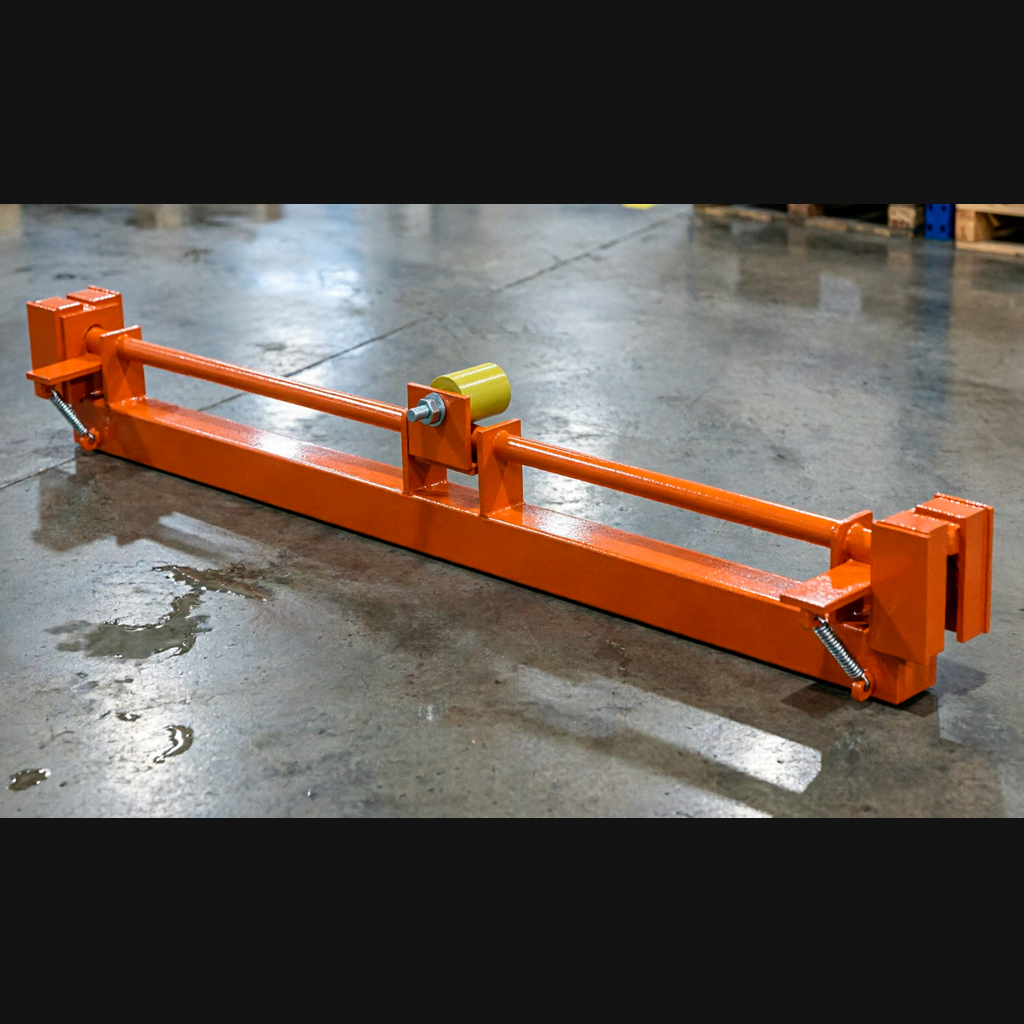
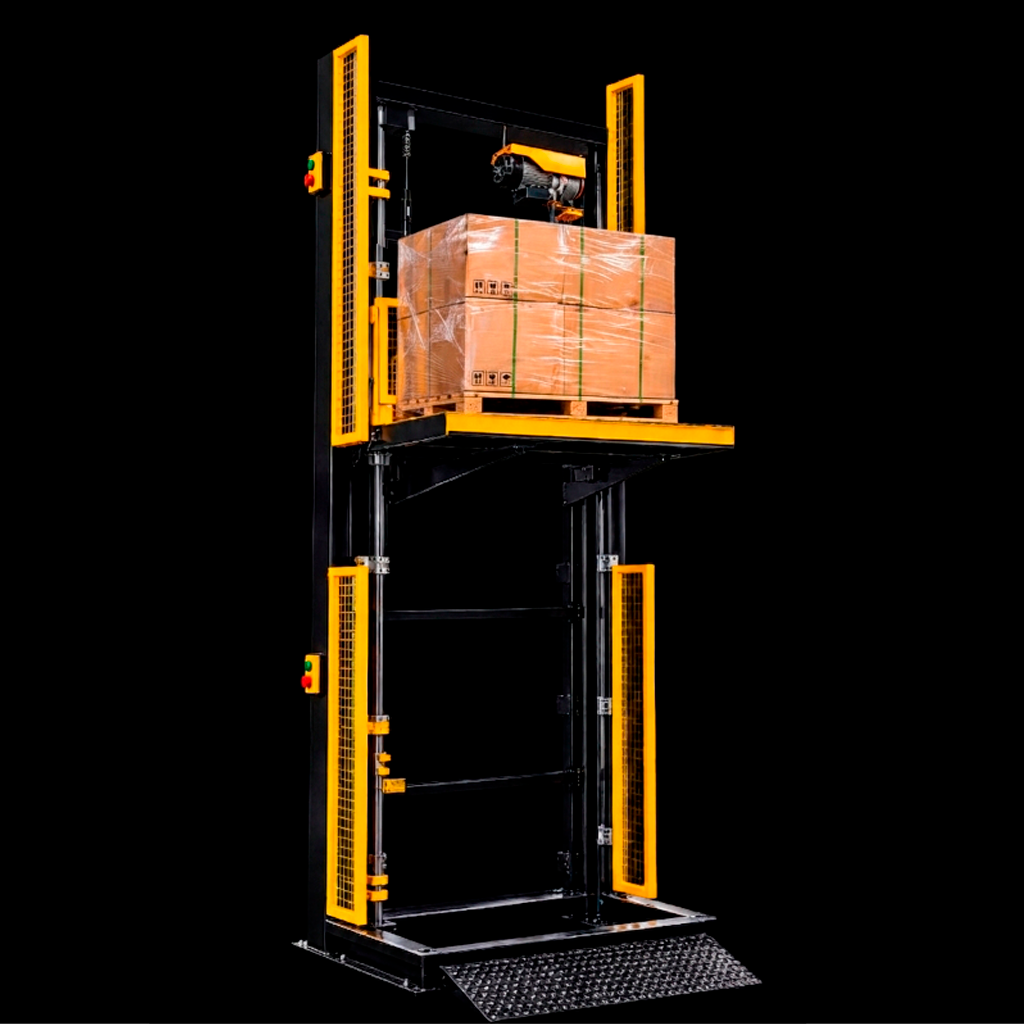
Aumenta fonte dos botões para 18px

diff --git a/css/style.css b/css/style.css
@@ -47,7 +47,7 @@ a {
     justify-content: center;
     padding: 12px 35px;
     font-family: var(--font-heading);
-    font-size: 14px;
+    font-size: 18px;
     font-weight: 500;
     text-transform: uppercase;
     border-radius: 50px; /* Pill shape identical to reference */
